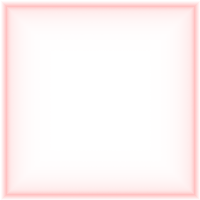
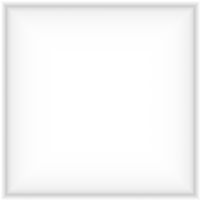
add galactic team shade

Changed region(s): [[0.0, 0.0, 0.99, 0.99]]

diff --git a/netrek/__init__.py b/netrek/__init__.py
@@ -6,7 +6,7 @@
 
 """
     pygame netrek
-    Copyright (C) 2007-2009  James Cameron (quozl@us.netrek.org)
+    Copyright (C) 2007-2010  James Cameron (quozl@us.netrek.org)
 
     This program is free software; you can redistribute it and/or modify
     it under the terms of the GNU General Public License as published by
@@ -947,11 +947,10 @@ class PlanetTacticalSprite(PlanetSprite):
             self.mi_add_image(ic.get('planet-overlay-repair.png'))
         if self.planet.flags & PLFUEL:
             self.mi_add_image(ic.get('planet-overlay-fuel.png'))
-        # FIXME: cache the static flags surfaces here, they will rarely change
 
         # planet name
         image = pygame.Surface((120, 120), pygame.SRCALPHA, 32)
-        font = fc.get('DejaVuSans.ttf', 18)
+        font = fc.get('DejaVuSans.ttf', 17)
         message = "%s" % (self.planet.name)
         text = font.render(message, 1, (92, 92, 92))
         rect = text.get_rect(centerx=60, bottom=120)
@@ -1361,32 +1360,55 @@ class Alerts:
     """ red, yellow, and green alert status
     """
     def __init__(self):
+        self.reset()
+
+    def reset(self):
         self.lines = []
         self.rect = []
 
-    def line(self, c, sx, sy, ex, ey):
+    def line(self, sx, sy, ex, ey):
         self.lines.append((sx, sy, ex, ey))
-        self.rect.append(pygame.draw.line(screen, c, (sx, sy), (ex, ey)))
+        self.rect.append(pygame.draw.line(screen, self.colour, (sx, sy), (ex, ey)))
 
-    def draw(self):
-        self.lines = []
-        self.rect = []
+    def draw_lines(self, l, t, r, b):
+        self.line(l, t, r, t)
+        self.line(r, t, r, b)
+        self.line(r, b, l, b)
+        self.line(l, b, l, t)
 
-        colour = (0, 255, 0)
+    def pick_colour(self):
+        self.colour = (0, 255, 0)
         if me.flags & PFYELLOW:
-            colour = (255, 255, 0)
+            self.colour = (255, 255, 0)
         elif me.flags & PFRED:
-            colour = (255, 0, 0)
-
-        self.line(colour, r_us.left, r_us.top, r_us.right-1, r_us.top)
-        self.line(colour, r_us.left, r_us.bottom-1, r_us.right-1, r_us.bottom-1)
-        self.line(colour, r_us.left, r_us.top, r_us.left, r_us.bottom-1)
-        self.line(colour, r_us.right-1, r_us.bottom-1, r_us.right-1, r_us.top)
-        return self.rect
+            self.colour = (255, 0, 0)
 
     def undraw(self, colour):
         for (sx, sy, ex, ey) in self.lines:
             pygame.draw.line(screen, colour, (sx, sy), (ex, ey))
+        return self.rect
+
+class TacticalAlerts(Alerts):
+    def __init__(self):
+        Alerts.__init__(self)
+
+    def draw(self):
+        self.reset()
+        self.pick_colour()
+        self.draw_lines(r_us.left, r_us.top, r_us.right-1, r_us.bottom-1)
+        return self.rect
+
+class GalacticAlerts(Alerts):
+    def __init__(self):
+        Alerts.__init__(self)
+
+    def draw(self):
+        self.reset()
+        self.pick_colour()
+        l, t = n2gs(0, 0)
+        r, b = n2gs(GWIDTH-1, GWIDTH-1)
+        self.draw_lines(l, t, r, b)
+        # FIXME: bottom line not visible if main height = 600, why?
         return self.rect
 
 class DebugSprite(pygame.sprite.Sprite):
@@ -1585,10 +1607,14 @@ class MessageSprite(pygame.sprite.Sprite):
     def __init__(self):
         pygame.sprite.Sprite.__init__(self)
         galaxy.message = self
-        self.font = fc.get('DejaVuSansMono.ttf', 16)
-        self.maximum = 10
         self.width = 900
         self.height = 400
+        size = 16
+        if r_main.width < 801:
+            size = 14
+            self.width = 750
+        self.font = fc.get('DejaVuSansMono.ttf', size)
+        self.maximum = 10
         self.dirty = True
         self.lines = []
         self.head = ''
@@ -4031,7 +4057,7 @@ class PhaseFlight(Phase):
 class PhaseFlightGalactic(PhaseFlight):
     def __init__(self):
         PhaseFlight.__init__(self, 'galactic')
-        self.alerts = Alerts()
+        self.alerts = GalacticAlerts()
 
     def do(self):
         self.run = True
@@ -4045,28 +4071,53 @@ class PhaseFlightGalactic(PhaseFlight):
         r += [pygame.draw.line(screen, (128, 128, 128), (xc, y1), (xc, y2))]
         r += [pygame.draw.line(screen, (128, 128, 128), (x1, yc), (x2, yc))]
 
+        if r_us.width == 1000 and r_us.height == 1000:
+
+            ts = ic.get('team-box-rom.png')
+            tr = ts.get_rect(left=x1, top=y1)
+            screen.blit(ts, tr)
+            r += [tr]
+
+            ts = ic.get('team-box-fed.png')
+            tr = ts.get_rect(left=x1, bottom=y2)
+            screen.blit(ts, tr)
+            r += [tr]
+
+            ts = ic.get('team-box-ori.png')
+            tr = ts.get_rect(right=x2, bottom=y2)
+            screen.blit(ts, tr)
+            r += [tr]
+
+            ts = ic.get('team-box-kli.png')
+            tr = ts.get_rect(right=x2, top=y1)
+            screen.blit(ts, tr)
+            r += [tr]
+
         size = 24
         font = fc.get('DejaVuSans.ttf', size)
 
         ts = font.render('Romulan', 1, (255, 64, 64))
-        tr = ts.get_rect(left=r_us.left+2, top=r_us.top+2)
+        tr = ts.get_rect(left=x1+2, top=y1+2)
         screen.blit(ts, tr)
         r += [tr]
 
         ts = font.render('Federation', 1, (255, 255, 64))
-        tr = ts.get_rect(left=r_us.left+2, bottom=r_us.bottom-2)
+        tr = ts.get_rect(left=x1+2, bottom=y2-2)
         screen.blit(ts, tr)
         r += [tr]
 
         ts = font.render('Orion', 1, (64, 255, 255))
-        tr = ts.get_rect(right=r_us.right-2, bottom=r_us.bottom-2)
+        tr = ts.get_rect(right=x2-2, bottom=y2-2)
         screen.blit(ts, tr)
         r += [tr]
 
         ts = font.render('Klingon', 1, (64, 255, 64))
-        tr = ts.get_rect(right=r_us.right-2, top=r_us.top+2)
+        tr = ts.get_rect(right=x2-2, top=y1+2)
         screen.blit(ts, tr)
         r += [tr]
+
+        # FIXME: galactic to be centered on main screen for
+        # --width=800 --height=600 --no-fullscreen
 
         pygame.display.update(r)
         self.bg = screen.copy()
@@ -4113,7 +4164,7 @@ class PhaseFlightTactical(PhaseFlight):
     def __init__(self):
         PhaseFlight.__init__(self, 'tactical')
         self.borders = Borders()
-        self.alerts = Alerts()
+        self.alerts = TacticalAlerts()
         self.halos = Halos()
 
         self.co = (0, 0, 0)
@@ -4226,7 +4277,12 @@ class PhaseDisconnected(Phase):
         self.text('netrek', x, 100, 92)
         self.text(opt.chosen, x, 185, 64)
         self.text('disconnected', x, 255, 64)
-        self.texts = Texts(self.diagnosis(), 50, 455, 12, 18)
+        y = 455
+        size = 12
+        if r_main.width < 801:
+            size = 10
+            y = 350
+        self.texts = Texts(self.diagnosis(), 50, y, size, 18)
         self.add_quit_button(self.quit)
         self.add_list_button(self.list)
         pygame.display.flip()
@@ -4636,7 +4692,3 @@ def main():
 # FIXME: dual display
 
 # FIXME: keymap feature, allow use of function keys for actions.
-
-# FIXME: how to maintain static content off edge of valid tactical;
-# (a) mask a valid tactical rect over the master tactical redraw,
-# (b) draw the static content once and hope.

diff --git a/netrek/mis.py b/netrek/mis.py
@@ -3,6 +3,7 @@ import pygame
 class MultipleImageSprite(pygame.sprite.Sprite):
     """ a sprite class consisting of multiple images overlaid
         the images are blitted over each other in the order they are added
+        all images share a common centre
     """
     def __init__(self):
         pygame.sprite.Sprite.__init__(self)
